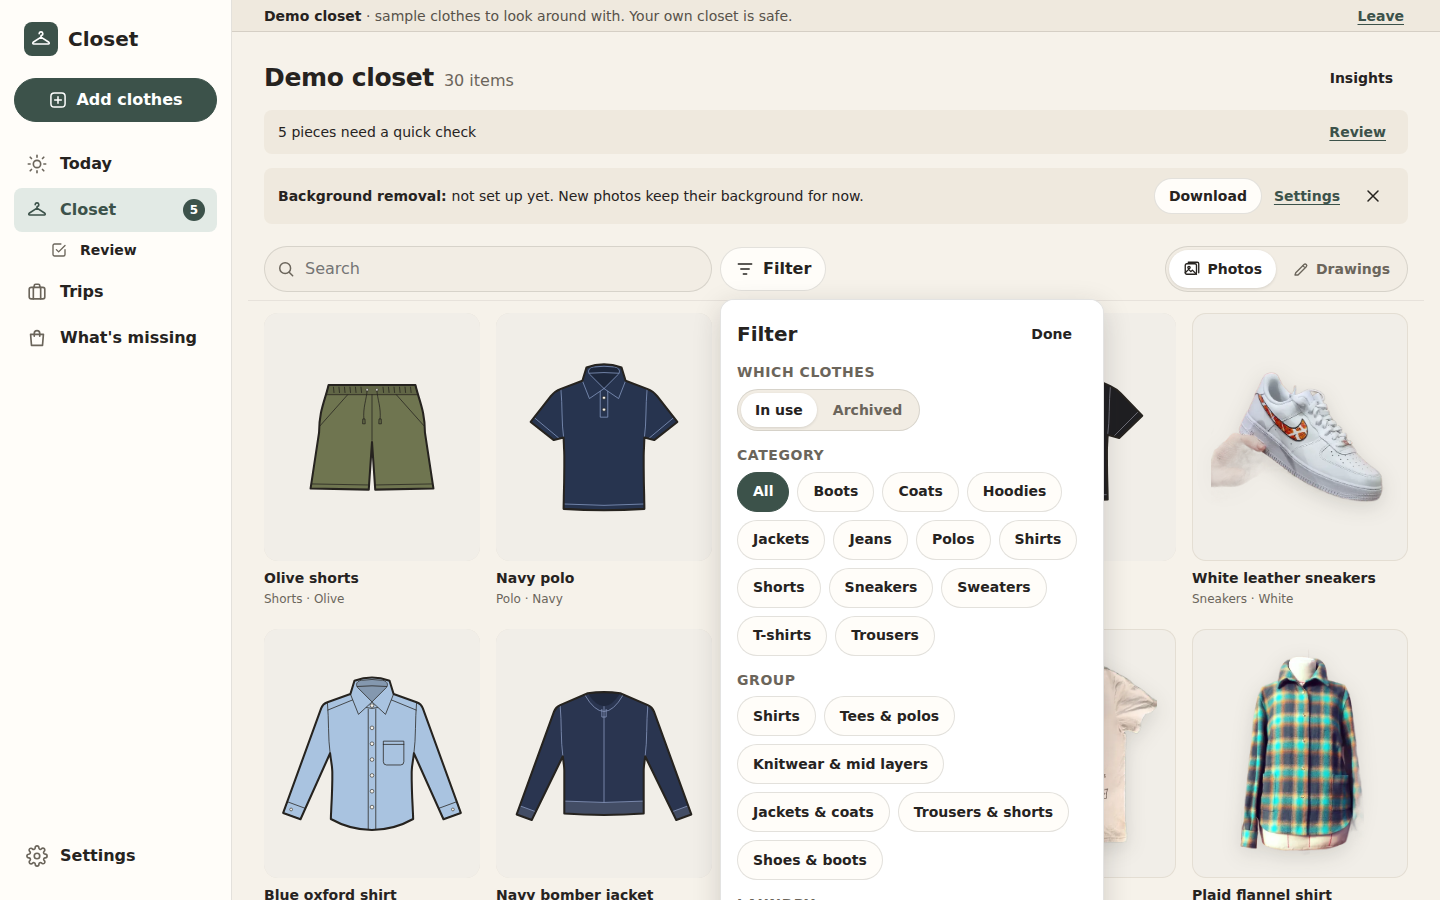
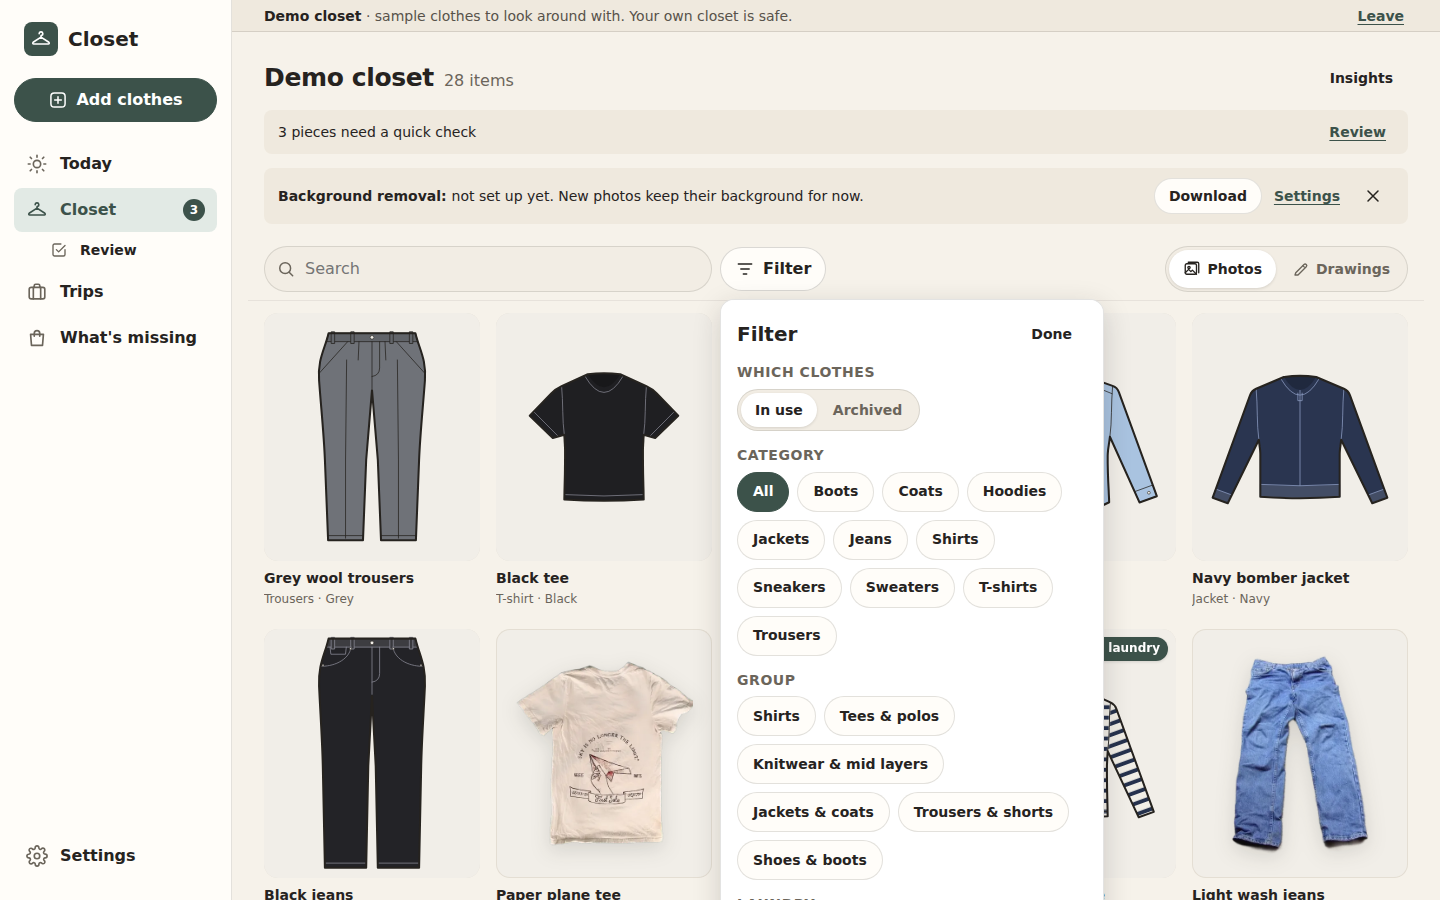
Merge main; kinds of accessories drawn and read from Claude's answer; screenshots

diff --git a/frontend/e2e/11-corrections.spec.ts b/frontend/e2e/11-corrections.spec.ts
@@ -1,4 +1,7 @@
+import { resolve } from 'node:path';
 import { expect, login, test, useProfile } from './fixtures';
+
+const SHOTS = resolve(import.meta.dirname, '../../docs/screenshots');
 
 test.afterEach(async ({ page }) => {
   await page.request.post('/api/profile', { data: { profile: 'main' } });
@@ -65,12 +68,17 @@ test('in the demo closet: say what it is with the kind picker, see the drawing c
   await picker.getByRole('searchbox').fill('fleece');
   const found = picker.getByRole('region', { name: 'Kinds found' });
   await expect(found.getByRole('button', { name: 'Joggers' })).toHaveCount(0);
+  await expect(found.locator('img').first()).toBeVisible();
+  await page.waitForLoadState('networkidle');
+  await page.screenshot({ path: `${SHOTS}/kind-picker-computer.png` });
   await found.getByRole('button', { name: 'Fleece pullover', exact: true }).click();
 
   await expect(picker).toHaveCount(0);
   await expect(row).toHaveAccessibleName('What is it?: Fleece pullover · Activewear. Set by you');
   await expect(detail.getByTestId('kind-pic')).toBeVisible();
   await expect(drawing).not.toHaveAttribute('src', before);
+  await page.waitForLoadState('networkidle');
+  await page.screenshot({ path: `${SHOTS}/kind-chosen-computer.png` });
 
   // the picker marks the kind it is now
   await row.click();

diff --git a/frontend/src/screens/ItemDetail.tsx b/frontend/src/screens/ItemDetail.tsx
@@ -429,7 +429,7 @@ function KindRow({ item, groups, disabled, onSaved, onError }: {
         data-testid="what-is-it" onClick={() => setEditing(open ? null : 'kind')}>
         <span className="detail-row-label">What is it?</span>
         <span className={`detail-row-value${item.kind ? '' : ' is-empty'}`}>
-          {item.kind && item.group !== 'accessories' && (
+          {item.kind && (
             <img className="kind-row-pic" src={kindDrawing(item.kind, item.color_hex)} alt="" data-testid="kind-pic" />
           )}
           <span className="kind-row-words">

diff --git a/backend/closet/kinds.py b/backend/closet/kinds.py
@@ -22,7 +22,17 @@ from functools import lru_cache
 
 from .drawing import item as draw
 from .tagger.schema import Details
-from .tagger.taxonomy import APP_CATEGORY, BOTTOM_DRAWINGS, FOOTWEAR, GARMENT_DRAWINGS, GARMENTS
+from .tagger.taxonomy import _KIND_DRAWING as ACCESSORY_TEMPLATE
+from .tagger.taxonomy import ACCESSORIES as ACCESSORY_KINDS_OF
+from .tagger.taxonomy import (
+    ACCESSORY_GARMENTS,
+    ACCESSORY_GROUP,
+    APP_CATEGORY,
+    BOTTOM_DRAWINGS,
+    FOOTWEAR,
+    GARMENT_DRAWINGS,
+    GARMENTS,
+)
 
 # every kind in the taxonomy's `garments`, in its order: its taxonomy category and its signature
 KINDS: dict[str, tuple[str, str]] = {
@@ -215,9 +225,7 @@ TOP_AXES_OF: dict[str, dict[str, tuple]] = {
     'smoking_jacket': {'collar': ('shawl',)},
 }
 # each accessory's app category, as the taxonomy gives it
-ACCESSORIES: dict[str, str] = {
-    'cap': 'hat', 'beanie': 'hat', 'brimmed_hat': 'hat', 'belt': 'belt', 'tie': 'other', 'pocket_square': 'other', 'scarf': 'scarf', 'gloves': 'other', 'bag': 'bag', 'eyewear': 'other', 'watch': 'other', 'socks': 'other'
-}
+ACCESSORIES: dict[str, str] = ACCESSORY_GARMENTS
 
 # the groups the owner chooses a kind from, each with the taxonomy categories it gathers
 GROUPS: tuple[tuple[str, str, tuple[str, ...]], ...] = (
@@ -333,7 +341,7 @@ def catalogue() -> dict:
     """The groups and every kind in them, in the taxonomy's order, for the item page's picker and the Closet filter."""
     return {"groups": [{"id": g, "title": t} for g, t, _ in GROUPS],
             "kinds": [{"id": k, "name": name(k), "group": group(k), "category": category_for(k), "words": search_words(k),
-                       "drawn": category_for(k) in draw.DRAWN} for k in KINDS]}
+                       "drawn": category_for(k) in draw.DRAWN or k in ACCESSORIES} for k in KINDS]}
 
 
 # ------------------------------------------------------------- an item's kind
@@ -353,12 +361,14 @@ def owner_kind(row) -> str | None:
 
 
 def said_kind(answer) -> str | None:
-    """The kind in Claude's answer: its garment, or for a shoe a footwear id among the words it saw."""
+    """The kind in Claude's answer: its garment, its accessory, or for a shoe a footwear id among the words it saw."""
     found = answer.get("details") if isinstance(answer, dict) else None
     if not isinstance(found, dict):
         return None
     if found.get("garment") in KINDS:
         return found["garment"]
+    if found.get("accessory") in ACCESSORIES and ACCESSORIES[found["accessory"]] == answer.get("category"):
+        return found["accessory"]
     if answer.get("category") in draw.SHOES:
         for w in found.get("other_features") or []:
             if isinstance(w, str):
@@ -460,6 +470,14 @@ def applies(kind, name_: str) -> bool:
     return fields is None or name_ not in HIDEABLE or name_ in fields
 
 
+def _accessory_kind_fits(kind: str, value) -> bool:
+    """Whether an accessory's kind (a fedora, a tote) is one of this accessory's; a hat's kind must also be drawn
+    as this hat (a trucker cap is not a beanie)."""
+    if value not in ACCESSORY_KINDS_OF[ACCESSORY_GROUP[kind]]:
+        return False
+    return ACCESSORIES[kind] != "hat" or ACCESSORY_TEMPLATE.get(value, (kind,))[0] == kind
+
+
 def conform(found: dict, kind: str | None, said: str | None, owner: dict) -> dict:
     """The details an item is drawn from, made to fit the kind the owner chose. A shoe takes the kind's style and
     footwear id; a top that is now another kind than Claude saw keeps what Claude saw where the kind allows it and
@@ -475,8 +493,11 @@ def conform(found: dict, kind: str | None, said: str | None, owner: dict) -> dic
                   if isinstance(w, str) and not any(_say(f) in _say(w) for f in FOOTWEAR)]
         out["other_features"] = [kind.replace("_", " ")] + others
         return out
-    if kind not in GARMENTS:   # an accessory: its details say nothing about it
+    if kind not in GARMENTS:   # an accessory: drawn as the one chosen, with Claude's kind of it only if it is one
         out["garment"] = "unknown"
+        out["accessory"] = kind
+        if "accessory_kind" not in owner and not _accessory_kind_fits(kind, out.get("accessory_kind")):
+            out["accessory_kind"] = "na"
         return out
     if kind == said or not _top(kind):
         return out
@@ -498,9 +519,9 @@ def conform(found: dict, kind: str | None, said: str | None, owner: dict) -> dic
 
 @lru_cache(maxsize=512)
 def drawing(kind: str, hex_: str = TILE_HEX) -> str | None:
-    """A small drawing of a kind, in the item's colour, for the picker; None for what is not drawn (accessories)."""
+    """A small drawing of a kind, in the item's colour, for the picker; None for a colour that is not #rrggbb."""
     category = category_for(kind)
-    if category not in draw.DRAWN or not _HEX.fullmatch(hex_):
+    if not (category in draw.DRAWN or kind in ACCESSORIES) or not _HEX.fullmatch(hex_):
         return None
     found = Details.plain().model_dump(mode="json")
     if kind in GARMENTS:

diff --git a/backend/tests/test_kinds.py b/backend/tests/test_kinds.py
@@ -58,8 +58,8 @@ def test_every_kind_sets_a_category_of_its_own_sort(kind):
     for current in ("trousers", "tee", "boots"):
         again = kinds.category_for(kind, current)
         assert again == (current if kind in kinds.SET_CATEGORY and current in TOPS + BOTTOMS else category)
-    # and is drawn, unless it is an accessory
-    assert (kinds.drawing(kind) is None) == (taxonomy == "accessory")
+    # and is drawn (an accessory with no shape of its own as a plain tag)
+    assert kinds.drawing(kind) is not None
 
 
 def test_some_categories_by_name():
@@ -192,7 +192,8 @@ def test_the_catalogue_and_the_drawings(client):
     assert client.get("/api/vocab").json()["kind_groups"] == found["groups"]
     r = client.get("/api/kinds/fleece_pullover.svg?color=%23336699")
     assert r.status_code == 200 and r.headers["content-type"].startswith("image/svg+xml") and "#336699" in r.text.lower()
-    assert client.get("/api/kinds/beanie.svg").status_code == 404
+    assert client.get("/api/kinds/beanie.svg").status_code == 200
+    assert all(k["drawn"] for k in found["kinds"])
     assert client.get("/api/kinds/toga.svg").status_code == 404
     assert client.get("/api/kinds/polo.svg?color=red").status_code == 404
 
@@ -202,3 +203,32 @@ def test_a_sentence_changing_the_category_drops_a_kind_it_no_longer_is(client, s
     client.put(f"/api/items/{item['id']}/kind", json={"kind": "henley"})
     changed = client.patch(f"/api/items/{item['id']}", json={"category": "shirt"}).json()
     assert changed["own_details"] == {} and changed["kind"] is None
+
+
+def test_an_accessorys_kind(client, services, claude, cfg):
+    item = described(client, services, claude)
+    conn = db.connect(cfg.db_path("main"))
+    try:
+        answer = json.loads(conn.execute("SELECT tag_answer FROM items WHERE id = ?", (item["id"],)).fetchone()[0])
+        answer["category"] = "hat"
+        answer["details"].update(garment="unknown", accessory="cap", accessory_kind="trucker_cap")
+        conn.execute("UPDATE items SET tag_answer = ?, category = 'hat' WHERE id = ?", (json.dumps(answer), item["id"]))
+    finally:
+        conn.close()
+    said = client.get(f"/api/items/{item['id']}").json()
+    assert (said["kind"], said["kind_by"], said["group"]) == ("cap", "claude", "accessories")
+    cap = svg(client, said)
+    # a beanie is not drawn as Claude's trucker cap; Claude's cap comes back with undo
+    beanie = client.put(f"/api/items/{item['id']}/kind", json={"kind": "beanie"}).json()
+    assert beanie["category"] == "hat" and beanie["kind"] == "beanie"
+    assert svg(client, beanie) != cap
+    assert kinds.conform({"accessory": "cap", "accessory_kind": "trucker_cap"}, "beanie", "cap", {})["accessory_kind"] == "na"
+    assert kinds.conform({"accessory": "cap", "accessory_kind": "fisherman_beanie"}, "beanie", "cap", {})["accessory_kind"] == \
+        "fisherman_beanie"
+    # an accessory with no shape of its own is drawn as a tag, filed under "other"
+    tie = client.put(f"/api/items/{item['id']}/kind", json={"kind": "tie"}).json()
+    assert tie["category"] == "other" and tie["illustration_url"]
+    assert _rows(cfg)[item["id"]]["category"] == "other"
+    latest = history(client, item["id"])[0]
+    back = client.post(f"/api/items/{item['id']}/history/{latest['id']}/undo").json()["item"]
+    assert back["kind"] == "beanie" and back["category"] == "hat"

diff --git a/docs/DECISIONS.md b/docs/DECISIONS.md
@@ -284,12 +284,12 @@ kept together in `backend/closet/kinds.py`.
 
 | Decision | Why |
 |---|---|
-| The owner's kind stays in `own_details.garment` (now any taxonomy garment, footwear and accessories included); Claude's is read from the stored answer (`details.garment`, or for a shoe the footwear id among `other_features`). No column and no migration (0019 is unused) | #111 already stored the owner's kind there with its history and undo; a column would have been a second copy of it, and reading Claude's kind from the answer needs no backfill. |
+| The owner's kind stays in `own_details.garment` (now any taxonomy garment, footwear and accessories included); Claude's is read from the stored answer (`details.garment`, `details.accessory`, or for a shoe the footwear id among `other_features`). No column and no migration (0019 is unused) | #111 already stored the owner's kind there with its history and undo; a column would have been a second copy of it, and reading Claude's kind from the answer needs no backfill. |
 | Choosing a kind sets the category that follows from it (the taxonomy's `app_category`; for footwear from the style it is drawn in, a loafer-style casual shoe, driving moccasin or velvet slipper being `dress_shoes`; a set such as pyjamas keeps a top or bottom category the item already has, else a default) as the owner's, in one history entry with the kind | So the engine and What's missing see the same thing they would have seen with the category chosen by hand; undo puts both back. A later `PATCH` of the category to one the kind cannot be drops the owner's kind. |
 | Groups are the taxonomy's `category` of each garment, titled in plain words, in the order shirts, tees and polos, knitwear and mid layers, jackets and coats, tailoring, trousers and shorts, activewear, loungewear and sleep, shoes and boots, accessories | The issue asks for groups from the taxonomy, not a hand-made list. So the fleece pullover sits in Activewear, where the owner's file puts it, not under Knitwear as the issue's example said. An item with no kind is shown in the group of its category. |
 | "Claude also thought" shows Claude's kind (when the owner has chosen another) and up to three kinds of the same group whose details fit the stored answer best | The tagger names one kind, not a ranked list; asking it for alternatives would change the tagging schema. |
 | After a kind change, details a top of that kind does not have (from its axes in the taxonomy and its drawing signature: neckline, collar, placket, cuffs, sleeve build, pockets, hem) are hidden from the Details card, the fixes and the drawing, not deleted; choosing a kind that has them brings them back. The cut and the sleeve length are never hidden | A wrong pick should cost nothing; the kind decides what is offered, not what is kept. |
-| Each kind's tile is drawn from its signature in the item's colour (`GET /api/kinds/{kind}.svg`); accessories have no drawing | Reuses the drawing code, so a tile looks like what choosing it would draw. |
+| Each kind's tile is drawn from its signature in the item's colour (`GET /api/kinds/{kind}.svg`), an accessory as its template (#119: a cap, a tote, or a plain tag for a tie or a watch). Choosing an accessory sets `details.accessory` in the drawing and keeps Claude's kind of it only if it is one of the chosen accessory's (a trucker cap is not drawn as a beanie) | Reuses the drawing code, so a tile looks like what choosing it would draw. |
 | Search matches the start of each typed word against the kind's name, its signature in the taxonomy and a short list of common words ("trainers", "jumper", "sweatpants"); names first | "snap", "chelsea" and "jogger" find what the owner would expect, with no search library. |
 
 | Decision | Why |

diff --git a/docs/API.md b/docs/API.md
@@ -31,8 +31,8 @@ Each photo: `id, kind, url, thumb_url, cutout_url, cutout_thumb_url, width, heig
 | Call | Result |
 |---|---|
 | `GET /api/vocab` | Allowed values: `category, color, pattern, formality, season, location, condition, rating` (lists), `silhouette` (object of lists) and `kind_groups` (`[{id, title}]`, the taxonomy's groups in order). |
-| `GET /api/kinds` | Every kind in the owner's taxonomy: `{groups: [{id, title}], kinds: [{id, name, group, category, words, drawn}]}`; `category` is the category choosing it sets (for a set, the default), `words` what the search matches, `drawn` false for accessories. |
-| `GET /api/kinds/{kind}.svg?color=#rrggbb` | The kind's small drawing, in that colour (grey without one). 404 for an unknown kind, an accessory or a colour that is not `#rrggbb`. |
+| `GET /api/kinds` | Every kind in the owner's taxonomy: `{groups: [{id, title}], kinds: [{id, name, group, category, words, drawn}]}`; `category` is the category choosing it sets (for a set, the default), `words` what the search matches, `drawn` whether it has a drawing (every kind, today). |
+| `GET /api/kinds/{kind}.svg?color=#rrggbb` | The kind's small drawing, in that colour (grey without one). 404 for an unknown kind or a colour that is not `#rrggbb`. |
 | `GET /api/items?status=active\|archived&category=&q=&laundry=clean\|laundry` | `{items: [ItemSummary]}`, newest first. |
 | `POST /api/items` multipart: `photo` (file), `client_key`, optional `name`, optional `photo_sha256` | 201 `Item` with `cutout_state: "pending"` and `duplicate: false`. Sending the same `client_key` again returns the first item with 200 and `duplicate: false`, so retries never duplicate. A photo already in the closet (an active or archived item, not a deleted one) is not added again: 200 with the existing item and `duplicate: true`. "The same photo" is decided by `photo_sha256`, the SHA-256 (64 hex characters) of the file as the owner chose it, before the page shrank it; without it, the hash of the bytes received. 422 if `photo_sha256` is malformed, 400 if the file is not a readable photo. |
 | `GET /api/items/{id}` | `Item` |
